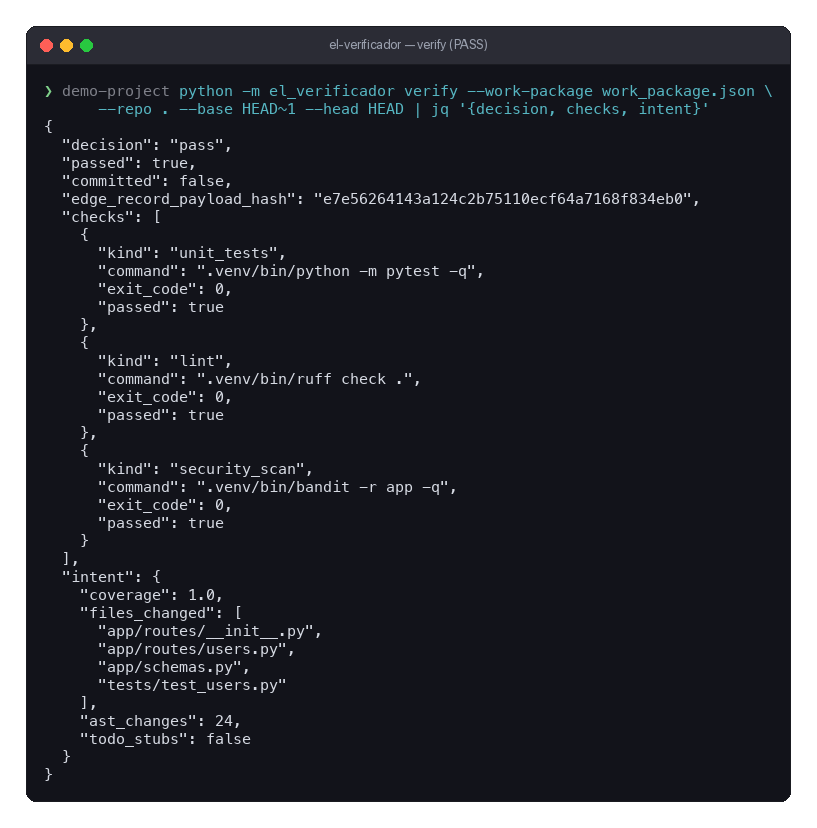
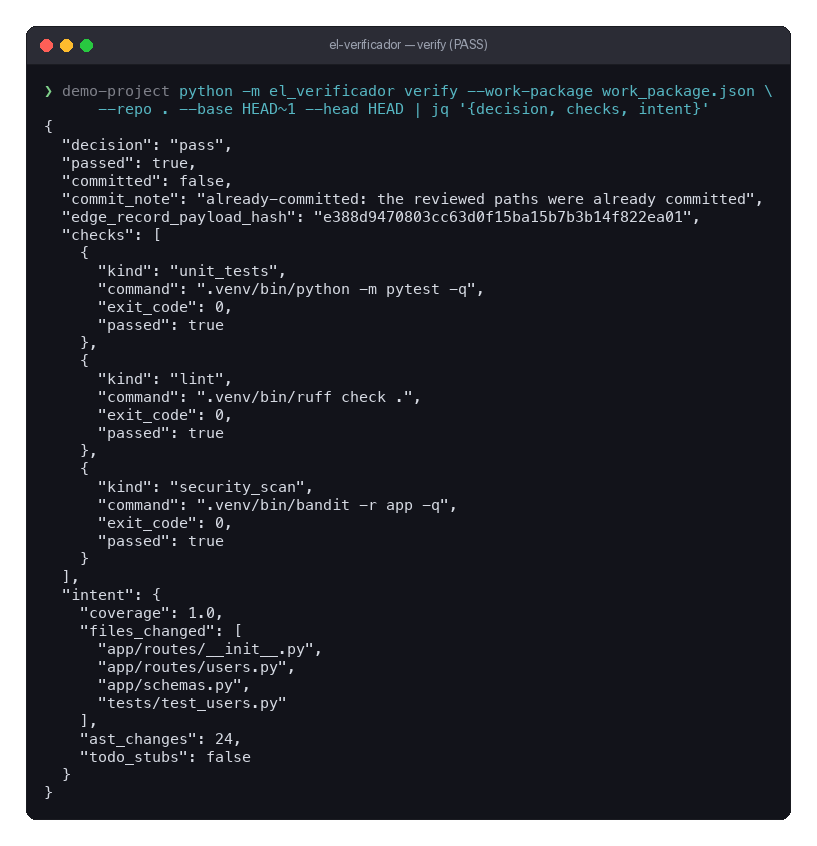
fix: the host is no longer a silent fallback for the sandbox
`DockerRunner.run_check()` fell back to `subprocess.run(command, cwd=repo)`
whenever Docker was unavailable or `dry_run` was set. The repository under
test holds code the agent wrote, and running its test suite there executes
that code with the operator's credentials, in the operator's working tree,
with the operator's network. A `conftest.py` is arbitrary code, and pytest
imports it before the tests run. `dry_run` was the mode the README's own
Quick Start used, so this was the default path, not an edge case.

The host fallback is now opt-in: `allow_host_execution` in the configuration,
or `--allow-host-execution` on the command line. Without it the check is
refused with exit code 125 — the conventional "could not be executed",
distinct from a test failure — and the message says whether Docker is
unavailable or this is dry-run mode, and what to do about it. The
verification fails closed.

This is a guard, not the Phase 1 answer. Phase 1 replaces the fallback with
a real, digest-pinned sandbox and a real acceptance contract; this change
makes the hole impossible to fall into by accident in the meantime.

The tests cover both sides: a repository whose `conftest.py` writes to the
host leaves no trace when the check is refused, and does leave one when the
operator explicitly allows it. The capture script passes the flag, because it
runs against a synthetic fixture and makes the host execution a visible
decision rather than a silent fallback.

diff --git a/tests/test_docker_runner.py b/tests/test_docker_runner.py
@@ -8,6 +8,7 @@ from unittest import mock
 import docker
 
 from el_verificador.docker_runner import (
+    HOST_EXECUTION_REFUSED,
     ContainerHandle,
     DockerRunner,
     SandboxUnavailableError,
@@ -16,8 +17,10 @@ from el_verificador.schemas import CheckKind, VerificationConfig
 
 
 class TestDockerRunnerDryRun(unittest.TestCase):
+    """Host execution is opt-in. These tests ask for it explicitly."""
+
     def setUp(self):
-        self.config = VerificationConfig(dry_run=True)
+        self.config = VerificationConfig(dry_run=True, allow_host_execution=True)
         self._tmp = tempfile.TemporaryDirectory()
         self.repo = self._tmp.name
         self.addCleanup(self._tmp.cleanup)
@@ -102,7 +105,20 @@ class TestDockerRunnerLiveMode(unittest.TestCase):
         runner.teardown()
 
     def test_run_check_without_daemon_does_not_raise(self):
+        """Without a sandbox and without the opt-in, the check is refused."""
         runner = DockerRunner(self.config)
+        with mock.patch.object(DockerRunner, "_docker_available", return_value=False):
+            runner.start(self.repo)
+            result = runner.run_check(CheckKind.UNIT_TESTS, "echo hello")
+        self.assertEqual(result.exit_code, HOST_EXECUTION_REFUSED)
+        self.assertIn("allow-host-execution", result.stderr)
+        self.assertNotIn("hello", result.stdout)
+        runner.teardown()
+
+    def test_run_check_without_daemon_runs_when_host_execution_is_allowed(self):
+        runner = DockerRunner(
+            VerificationConfig(dry_run=False, allow_host_execution=True)
+        )
         with mock.patch.object(DockerRunner, "_docker_available", return_value=False):
             runner.start(self.repo)
             result = runner.run_check(CheckKind.UNIT_TESTS, "echo hello")
@@ -125,6 +141,65 @@ class TestDockerRunnerLiveMode(unittest.TestCase):
                 with self.assertRaises(SandboxUnavailableError) as ctx:
                     runner.start(self.repo)
         self.assertIn(self.config.docker_image, str(ctx.exception))
+
+
+class TestHostExecutionIsRefusedByDefault(unittest.TestCase):
+    """The repository under test contains code the agent wrote.
+
+    Running its acceptance commands on the host executes that code with the
+    operator's credentials. That has to be a decision the operator makes, not
+    a fallback the tool takes.
+    """
+
+    def setUp(self):
+        self.config = VerificationConfig(dry_run=True)
+        self._tmp = tempfile.TemporaryDirectory()
+        self.repo = Path(self._tmp.name)
+        self.addCleanup(self._tmp.cleanup)
+        self.marker = self.repo / "pwned.txt"
+
+    def _write_a_test_that_writes_to_the_host(self):
+        # A conftest.py is arbitrary code: pytest imports it before the
+        # tests run, so this is enough to execute anything.
+        (self.repo / "conftest.py").write_text(
+            "import pathlib\n"
+            "pathlib.Path(%r).write_text('executed on the host')\n" % str(self.marker)
+        )
+
+    def test_the_default_refuses_to_execute(self):
+        self._write_a_test_that_writes_to_the_host()
+        runner = DockerRunner(self.config)
+        runner.start(str(self.repo))
+        result = runner.run_check(CheckKind.UNIT_TESTS, "python -c 'pass'")
+        self.assertEqual(result.exit_code, HOST_EXECUTION_REFUSED)
+        self.assertFalse(result.passed)
+        self.assertFalse(self.marker.exists())
+
+    def test_the_refusal_explains_how_to_allow_it(self):
+        runner = DockerRunner(self.config)
+        runner.start(str(self.repo))
+        result = runner.run_check(CheckKind.UNIT_TESTS, "python -c 'pass'")
+        self.assertIn("not run", result.stderr)
+        self.assertIn("Docker daemon", result.stderr)
+        self.assertIn("--allow-host-execution", result.stderr)
+
+    def test_the_opt_in_runs_the_command(self):
+        self._write_a_test_that_writes_to_the_host()
+        config = VerificationConfig(dry_run=True, allow_host_execution=True)
+        runner = DockerRunner(config)
+        runner.start(str(self.repo))
+        result = runner.run_check(CheckKind.UNIT_TESTS, f"touch {self.marker}")
+        self.assertEqual(result.exit_code, 0)
+        self.assertTrue(self.marker.exists())
+
+    def test_every_check_is_refused(self):
+        runner = DockerRunner(self.config)
+        runner.start(str(self.repo))
+        results = runner.run_all(commands=["echo a", "echo b", "echo c"])
+        self.assertEqual(len(results), 3)
+        for result in results:
+            self.assertEqual(result.exit_code, HOST_EXECUTION_REFUSED)
+            self.assertFalse(result.passed)
 
 
 if __name__ == "__main__":

diff --git a/el_verificador/docker_runner.py b/el_verificador/docker_runner.py
@@ -15,6 +15,11 @@ from typing import List, Optional
 
 from .schemas import CheckKind, CheckResult, VerificationConfig
 
+# Exit code for "the check could not be executed". 125 is the conventional
+# value for a command that cannot be run, and it is distinct from a test
+# failure, so the two are never confused in a report.
+HOST_EXECUTION_REFUSED = 125
+
 
 class SandboxUnavailableError(RuntimeError):
     """Raised when the Docker sandbox cannot be provisioned.
@@ -123,7 +128,21 @@ class DockerRunner:
         start = time.time()
 
         if self.config.dry_run or not self._docker_available():
-            # Dry-run: execute locally for offline development.
+            # No sandbox. The fallback would run the command on the host, in
+            # the repository under test, with the operator's credentials.
+            # That repository holds code the agent wrote, and a `conftest.py`
+            # is arbitrary code — so the fallback is opt-in, and the refusal
+            # says exactly what to do about it.
+            if not self.config.allow_host_execution:
+                return CheckResult(
+                    kind=kind,
+                    command=command,
+                    exit_code=HOST_EXECUTION_REFUSED,
+                    stdout="",
+                    stderr=self._host_execution_refusal(),
+                    duration_ms=int((time.time() - start) * 1000),
+                )
+
             import shlex
             import subprocess
 
@@ -209,6 +228,20 @@ class DockerRunner:
     # ------------------------------------------------------------------ #
     # Helpers
     # ------------------------------------------------------------------ #
+    def _host_execution_refusal(self) -> str:
+        """Why the check did not run, and what the operator can do about it."""
+        reason = (
+            "dry-run mode" if self.config.dry_run else "the Docker daemon is not available"
+        )
+        return (
+            f"the check was not run: {reason}, and running acceptance commands on "
+            "the host would execute code that came from the repository under "
+            "test with the operator's credentials. Start the Docker daemon to "
+            "run this check in the sandbox, or pass --allow-host-execution (or "
+            "set allow_host_execution: true) if you trust this repository and "
+            "accept that its test code will run on your machine."
+        )
+
     def _docker_available(self) -> bool:
         if self._docker_ok is not None:
             return self._docker_ok

diff --git a/el_verificador/__main__.py b/el_verificador/__main__.py
@@ -35,6 +35,16 @@ def create_parser() -> argparse.ArgumentParser:
     verify_parser.add_argument(
         "--dry-run", action="store_true", help="Skip Docker/git/EdgeRecord writes"
     )
+    verify_parser.add_argument(
+        "--allow-host-execution",
+        action="store_true",
+        help=(
+            "Permit the acceptance commands to run on this machine when no "
+            "sandbox is available. The repository under test contains code the "
+            "agent wrote, and running it here executes that code with your "
+            "credentials. Off by default."
+        ),
+    )
 
     add_taskrivet_arguments(verify_parser)
 
@@ -70,6 +80,8 @@ async def main() -> int:
                     setattr(config, k, v)
     if getattr(args, "dry_run", False):
         config.dry_run = True
+    if getattr(args, "allow_host_execution", False):
+        config.allow_host_execution = True
 
     if not hasattr(args, "command") or not args.command:
         parser.print_help()

diff --git a/el_verificador/schemas.py b/el_verificador/schemas.py
@@ -631,6 +631,13 @@ class VerificationConfig(BaseModel):
     # Dry-run: skip Docker/git/EdgeRecord writes for offline testing
     dry_run: bool = False
 
+    # Running the acceptance commands on the host executes code that came
+    # from the repository under test — a `conftest.py` is arbitrary code, and
+    # it would run with the operator's credentials, in the operator's working
+    # tree, with the operator's network. That is only acceptable when the
+    # operator has said so, in the configuration or on the command line.
+    allow_host_execution: bool = False
+
     def __post_init__(self):  # type: ignore[override]
         import os
         self.edgerecord_db = os.path.expanduser(self.edgerecord_db)

diff --git a/scripts/capture_screenshots.py b/scripts/capture_screenshots.py
@@ -231,10 +231,14 @@ VERIFY_CMD = [
     "--base", "HEAD~1",
     "--head", "HEAD",
     "--config", "verificador.yaml",
+    # The demo repository is a synthetic fixture, and there is no Docker
+    # daemon on the capture machine. The flag makes the host execution an
+    # explicit, visible decision instead of a silent fallback.
+    "--allow-host-execution",
 ]
 
 PASS_FILTER = """{
-  decision, passed, committed, edge_record_payload_hash,
+  decision, passed, committed, commit_note, edge_record_payload_hash,
   checks: [.check_results[] | {
     kind, command, exit_code, passed: (.exit_code == 0)
   }],

diff --git a/README.md b/README.md
@@ -124,26 +124,32 @@ of *what was decided and why* cannot be quietly rewritten:
 
 **Alpha — the core loop runs; the pipeline is not yet connected.**
 
-Implemented and tested (26 tests green): the data contracts, the Docker sandbox
+Implemented and tested (96 tests green): the data contracts, the Docker sandbox
 runner, the AST semantic diff, the guardrailed retry loop, git commit +
 teardown, and the hash-chained audit ledger. The verification cycle has run
 end-to-end against a real repository — see the screenshots above.
 
-Four defects that prevented that from being true are fixed in this change set
-and recorded in [ROADMAP.md](ROADMAP.md) Appendix B: every non-dry-run
+Defects that prevented that from being true are fixed and recorded in
+[ROADMAP.md](ROADMAP.md) Appendices B, D, E, F, and G: every non-dry-run
 verification crashed on a shadowed method, the primary CLI command crashed on
-its JSON serialisation, dry-run checks ran in the wrong directory, and the
-semantic diff crashed on binary files in the diff.
+its JSON serialisation, dry-run checks ran in the wrong directory, the
+semantic diff crashed on binary files in the diff, the semantic diff could not
+see a rewritten function body, the coverage score measured the wrong thing, the
+commit path staged the whole working tree, the escalation path discarded its
+evidence, the audit hash did not cover the evidence it claimed to protect, and
+the retry loop spent its budget on an unchanged repository.
 
 **Known gaps, all tracked in [ROADMAP.md](ROADMAP.md):**
 
 - Taskrivet dispatch, Ticket Board escalation, and a canonical EdgeRecord
   receipt do not exist yet. `ESCALATE` is currently a return value, not an
   escalation.
-- The intent-coverage score is not yet a valid gate: it is structurally capped
-  at `0.4` while the configured threshold is `0.85`, and the threshold is not
-  currently enforced. Fixing the metric changes what passes and what fails, so
-  it is called out as an operator decision rather than done silently.
+- The intent-coverage score is now measured against the identifiers the goal
+  names and is reported with its inputs, but the configured threshold is still
+  not enforced: the score has not been calibrated against a population of real
+  work packages, and a correct implementation that spells a name differently
+  would score below it. It is called out as an operator decision rather than
+  done silently.
 - The EdgeRecord audit record is written to a local SQLite ledger
   (`~/.edgerecord/ledger.sqlite`), not to a canonical EdgeRecord receipt.
 
@@ -187,6 +193,26 @@ python -m el_verificador verify \
 # 3. Check the audit trail
 python -m el_verificador audit --verify-chain
 ```
+
+### Where the checks run
+
+Acceptance checks run inside the Docker sandbox. When there is no sandbox —
+Docker is not running, or `--dry-run` is set — the checks are **not** run on
+your machine by default, because the repository under test contains code the
+agent wrote, and running its test suite there executes that code with your
+credentials, in your working tree, with your network. A `conftest.py` is
+arbitrary code, and pytest imports it before the tests run.
+
+The check is refused with an explanation, and the verification fails closed.
+If you trust the repository and accept that its test code will run on your
+machine, say so:
+
+```bash
+python -m el_verificador verify ... --allow-host-execution
+```
+
+or set `allow_host_execution: true` in the configuration. Start the Docker
+daemon to run the checks in the sandbox instead.
 
 ## Verification Cycle
 

diff --git a/ROADMAP.md b/ROADMAP.md
@@ -1302,11 +1302,44 @@ written in.
 *Fix:* the chain follows insertion order, and a test covers two records with
 the same timestamp.
 
-**Still open, unchanged:** the host-execution fallback in dry-run (§2.3.1), the
-missing sandbox image (§2.3.2), and the audit trail still being written to a
-SQLite table this repository invented rather than to the real EdgeRecord
-(§2.2). The local ledger is the tool's own; it is not yet the system of
-record.
+**Still open, unchanged:** the missing sandbox image (§2.3.2), and the audit
+trail still being written to a SQLite table this repository invented rather
+than to the real EdgeRecord (§2.2). The local ledger is the tool's own; it is
+not yet the system of record.
+
+---
+
+## Appendix H — The host is no longer a silent fallback for the sandbox
+
+**H.1 — Dry-run executed untrusted code on the host (§2.3.1)**
+
+`DockerRunner.run_check()` fell back to `subprocess.run(command, cwd=repo)`
+whenever Docker was unavailable or `dry_run` was set. The repository under
+test holds code the agent wrote, and running its test suite there executes
+that code with the operator's credentials, in the operator's working tree,
+with the operator's network. A `conftest.py` is arbitrary code, and pytest
+imports it before the tests run. `dry_run` was documented as the mode the
+README's own Quick Start used.
+
+*Fix:* the host fallback is **opt-in**. `allow_host_execution` in the
+configuration, or `--allow-host-execution` on the command line, is what
+authorises it. Without it the check is refused with exit code `125` — the
+conventional "could not be executed", distinct from a test failure — and the
+message says whether Docker is unavailable or this is dry-run mode, and what
+to do about it. The verification fails closed.
+
+This is a guard, not the Phase 1 answer. Phase 1 replaces the fallback with a
+real, digest-pinned sandbox and a real acceptance contract; this change makes
+the hole impossible to fall into by accident in the meantime.
+
+The refusal and the opt-in are covered by tests: a repository whose
+`conftest.py` writes to the host leaves no trace when the check is refused,
+and does leave one when the operator explicitly allows it.
+
+**Still open, unchanged:** the missing sandbox image (§2.3.2) — the sandbox
+still has to be built and published, and until it is, the checks run nowhere
+rather than on the host — and the audit trail not being written to the real
+EdgeRecord (§2.2).
 
 ---
 

diff --git a/SPEC.md b/SPEC.md
@@ -41,6 +41,18 @@ the acceptance pipeline inside it:
 Only a container exit code of `0` for every check counts. Taskrivet's
 self-reported status is never trusted.
 
+**When there is no sandbox, the checks are not run on the host.** The
+repository under test contains code the agent wrote, and running its test
+suite on the operator's machine executes that code with the operator's
+credentials, in the operator's working tree, with the operator's network. A
+`conftest.py` is arbitrary code, and pytest imports it before the tests run.
+
+So the host fallback is **opt-in**: `allow_host_execution` in the
+configuration, or `--allow-host-execution` on the command line. Without it,
+the check is refused with exit code `125` — the conventional "could not be
+executed", distinct from a test failure — and the message says what to do
+about it. The verification fails closed.
+
 ### 2. Intent Alignment (The Semantic Diff)
 
 Passing tests are not enough — the code must solve the user's original problem.
@@ -208,7 +220,8 @@ mode) at `~/.edgerecord/ledger.sqlite`:
 | `max_retries` | 3 (hard iteration limit) |
 | Intent coverage threshold | 0.85 — reported with its inputs; a gate once the score is calibrated (see §2) |
 | Fail on TODO stubs | enabled — honours `fail_on_todo_stubs`; a stub or a TODO comment fails the run |
-| Dry-run mode | available for offline development |
+| Host execution | refused unless `allow_host_execution` is set — the checks run in the sandbox, or not at all |
+| Dry-run mode | available for offline development; it does not authorise host execution |
 | Local-first | no cloud dependencies; Ollama Qwen at `http://127.0.0.1:11434` |
 
 ---

diff --git a/CHANGELOG.md b/CHANGELOG.md
@@ -9,6 +9,14 @@ and this project adheres to [Semantic Versioning](https://semver.org/).
 
 ### Fixed
 
+- **Acceptance checks fell back to running on the host.** When Docker was
+  unavailable or `dry_run` was set, the checks ran with `subprocess.run` in
+  the repository under test — code the agent wrote, with the operator's
+  credentials, in the operator's working tree, with the operator's network. A
+  `conftest.py` is arbitrary code, and pytest imports it before the tests
+  run. The host fallback is now opt-in (`allow_host_execution`, or
+  `--allow-host-execution`); without it the check is refused with exit code
+  `125` and an explanation, and the verification fails closed.
 - **The retry loop spent its whole budget on an unchanged repository.** After
   a failed attempt the loop handed the Correction Prompt back and re-ran the
   same checks, with nothing checking whether the agent had acted on it. An
